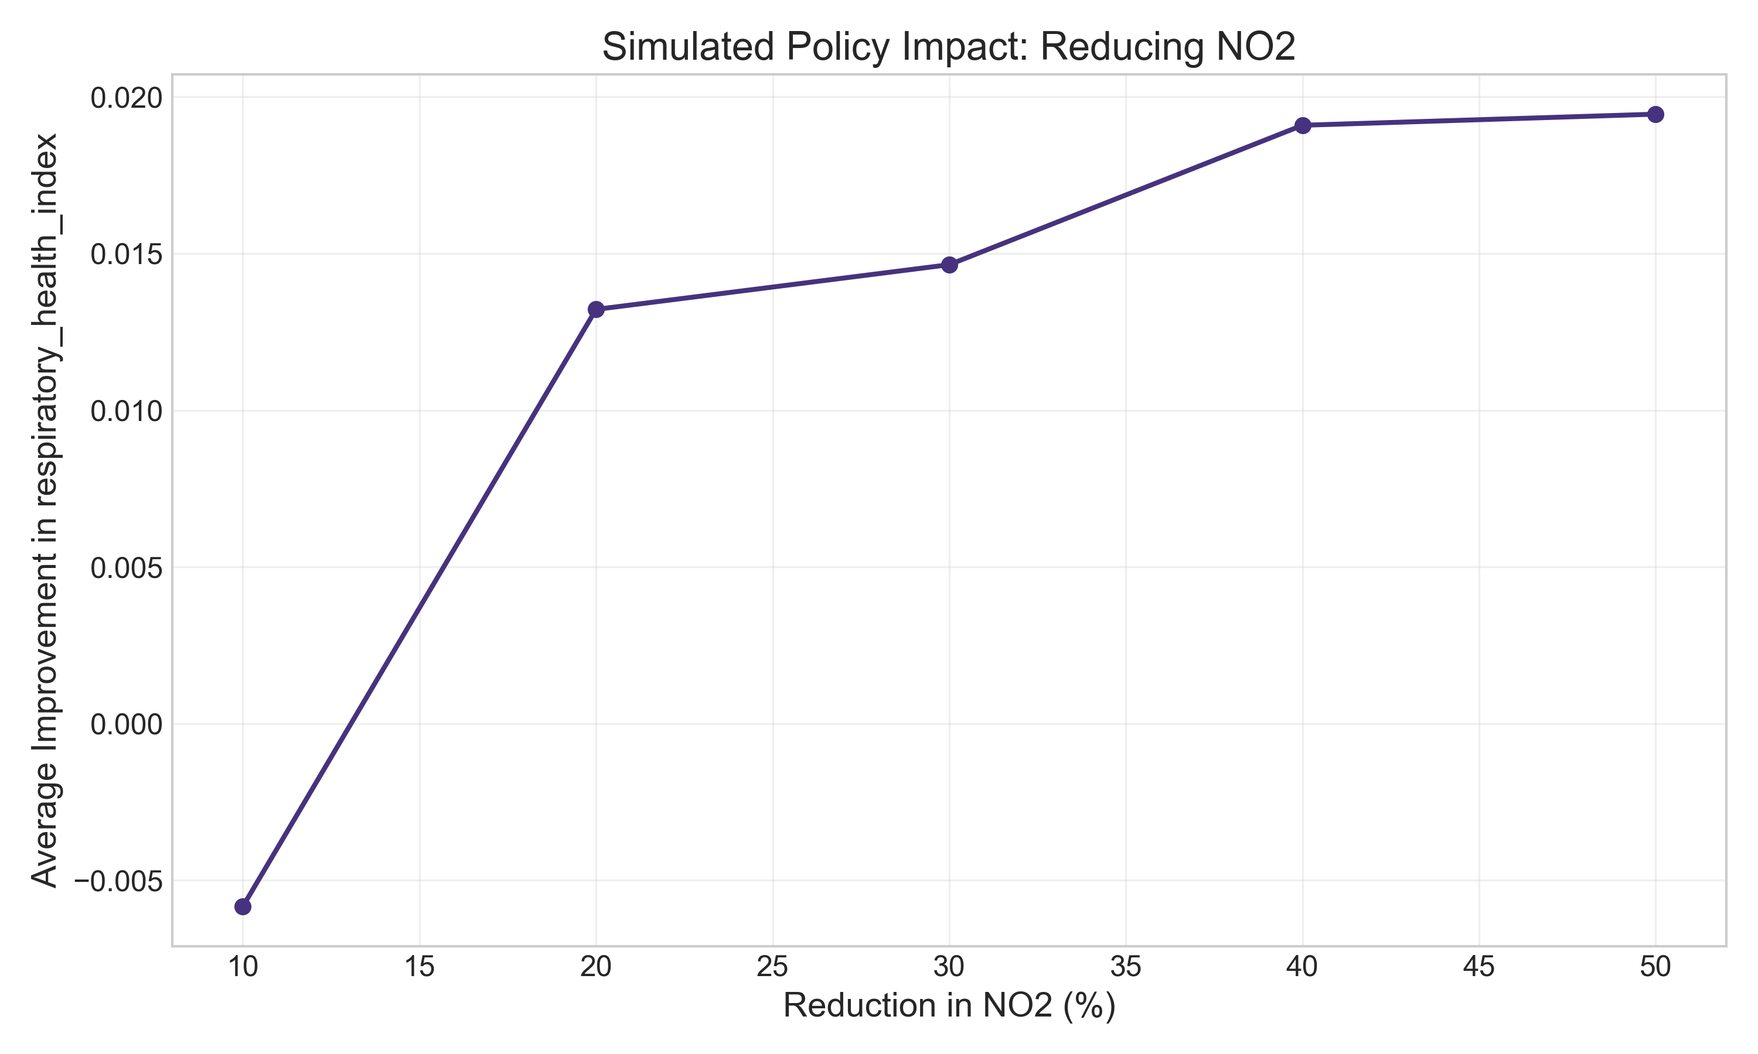
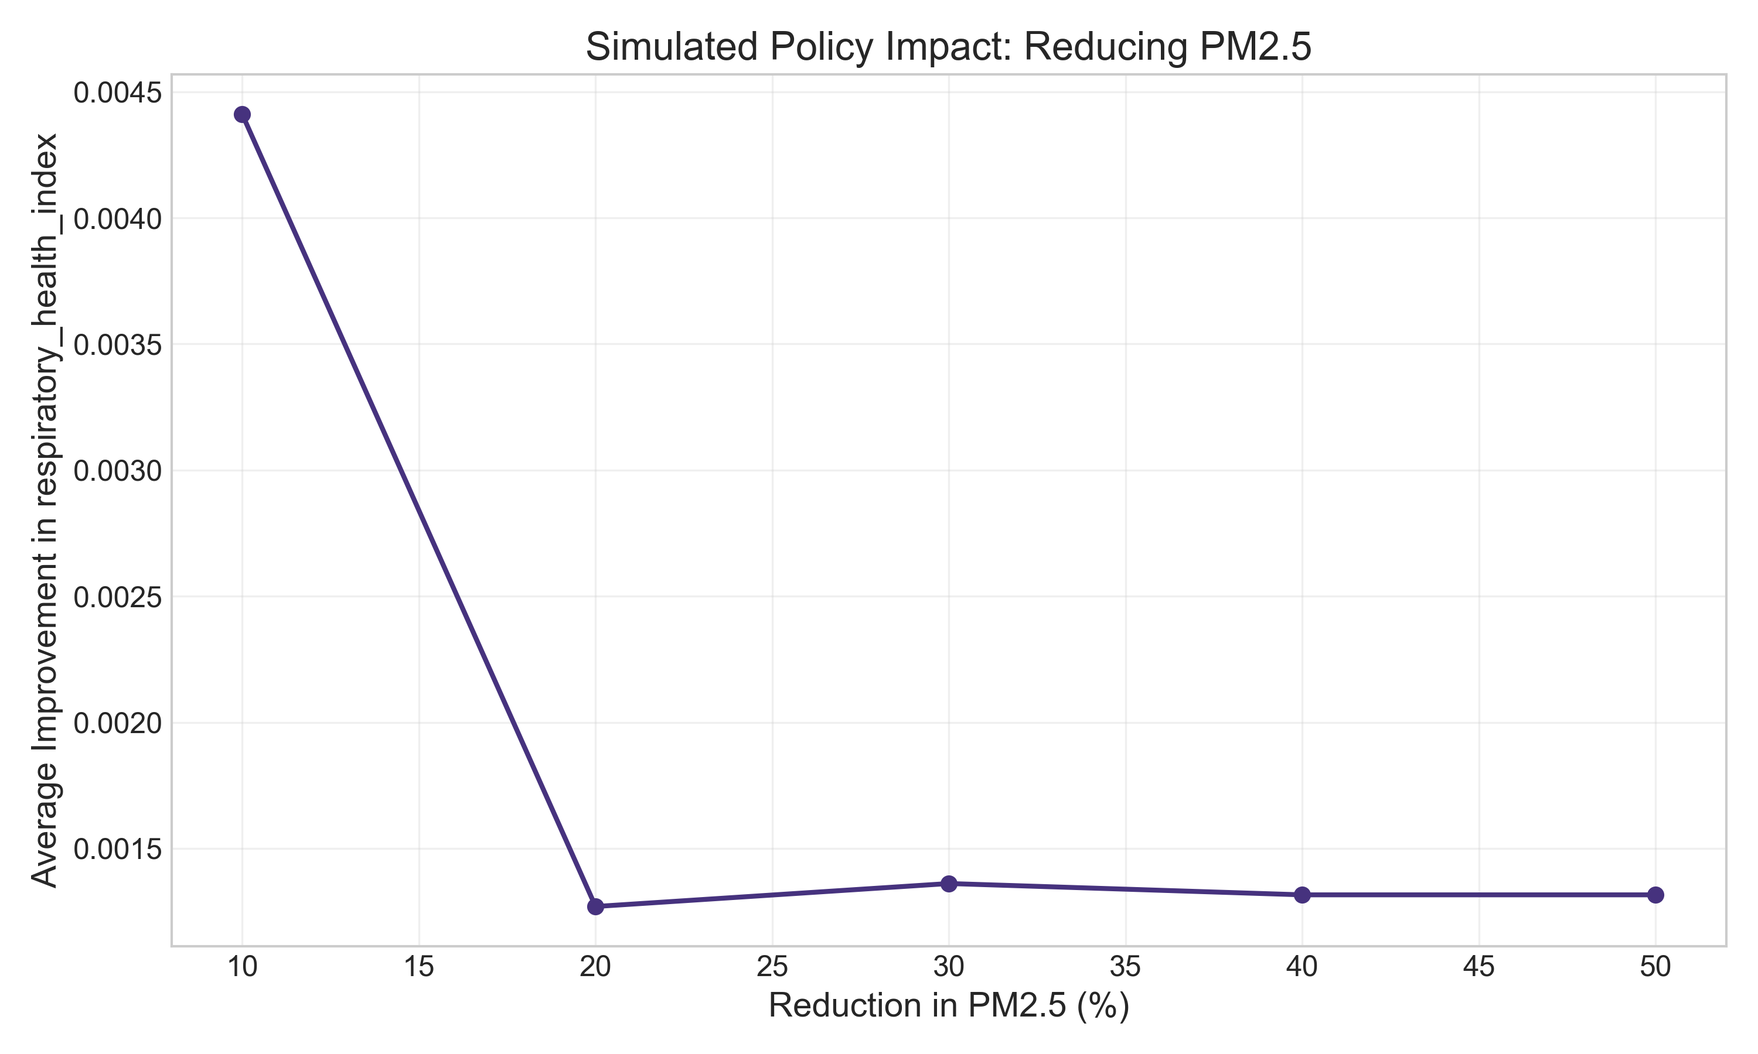
Add explanatory comment to run_causal_analysis.py

diff --git a/index.html b/index.html
@@ -28,10 +28,10 @@
              <p>This project provides actionable intelligence for tackling environmental injustice in England by identifying specific communities facing a 'double burden' of high pollution and deprivation, linked to poorer respiratory health. Using an integrated approach combining spatial statistics, machine learning, and quasi-causal methods, key findings reveal:</p>
              <ul>
                  <li><strong>Significant spatial clustering:</strong> Environmental injustice is geographically concentrated (Finding 1), enabling precise targeting of interventions away from broad-stroke approaches.</li>
-                 <li><strong>NO₂ Health Association:</strong> Higher NO₂ exposure is significantly associated with poorer respiratory health outcomes, even after controlling for area deprivation (Finding 2, PSM ATT ≈ -0.0404). This suggests a direct health burden from NO₂ itself.</li>
+                 <li><strong>PM2.5 Health Association:</strong> Higher PM2.5 exposure is significantly associated with poorer respiratory health outcomes, even after controlling for area deprivation (Finding 2, PSM ATT ≈ -0.0399, p &lt; 0.05). This suggests a direct health burden from fine particulate matter.</li>
                  <li><strong>Distinct Area Profiles:</strong> Local Authorities cluster into typologies (e.g., 'Urban Deprived/Polluted') with unique challenge combinations, requiring tailored policy responses (Finding 3).</li>
              </ul>
-             <p>The analysis enables efficient resource allocation by pinpointing high-risk LSOAs and LADs. Policy simulations suggest targeted NO₂ reduction in priority areas could yield measurable health improvements, potentially benefiting a significant population (estimated ~1.5 million residents in top 10 priority LADs) and offering potential downstream NHS savings.</p>
+             <p>The analysis enables efficient resource allocation by pinpointing high-risk LSOAs and LADs. Policy simulations suggest targeted PM2.5 reduction in priority areas could yield measurable health improvements, potentially benefiting a significant population (estimated ~1.4 million residents in areas with above-median improvement for a 20% reduction) and offering potential downstream NHS savings.</p>
         </section>
 
         <!-- ######## START OF MOVED SECTION: Key Visual Moved Up ######## -->
@@ -85,22 +85,19 @@
             </div>
 
             <div class="finding">
-                <h3>Finding 2: High NO₂ Exposure Linked to Poorer Respiratory Health (Post-Matching)</h3>
-                <p>Using Propensity Score Matching (PSM) to control for observed IMD domains, I found a negative association between higher NO₂ levels (above median) and the respiratory health index at the LAD level (Average Treatment Effect on the Treated, ATT ≈ -0.0404, p-value ≈ 0.16). <strong>Interpretation:</strong> This suggests that, holding observed deprivation factors constant, moving from lower to higher NO₂ exposure is associated with a roughly <strong>4.0% relative decrease</strong> in the respiratory health index across matched LADs. While PSM cannot establish definitive causation due to potential unobserved confounders, and the association is not statistically significant at the conventional p<0.05 level in this run (p≈0.16), this finding still points towards a potential link between NO₂ and poorer respiratory health, independent of measured deprivation. The matching process successfully balanced observed covariates, as shown below.</p>
+                <h3>Finding 2: High PM2.5 Exposure Linked to Poorer Respiratory Health (Post-Matching)</h3>
+                <p>Using Propensity Score Matching (PSM) to control for observed IMD domains, I found a statistically significant negative association between higher PM2.5 levels (above median) and the respiratory health index at the LAD level (Average Treatment Effect on the Treated, ATT ≈ -0.0399, p-value ≈ 0.027). <strong>Interpretation:</strong> This suggests that, holding observed deprivation factors constant, moving from lower to higher PM2.5 exposure is associated with a roughly <strong>4.0% relative decrease</strong> in the respiratory health index across matched LADs. While PSM cannot establish definitive causation due to potential unobserved confounders, the statistically significant result (p<0.05) provides stronger evidence for a link between PM2.5 and poorer respiratory health, independent of measured deprivation. The matching process successfully balanced observed covariates, as shown below.</p>
                 <div class="figure-row">
                     <figure class="figure--two-col">
-                         <img src="assets/images/matched_outcome_high_NO2.png" alt="Box plot comparing respiratory health index post-matching for high vs low NO2 groups">
-                        <figcaption>Post-Matching Health Outcomes (NO₂): Shows lower average respiratory health index (poorer health) in the high-NO₂ group compared to matched controls after balancing covariates.</figcaption>
+                         <img src="assets/images/matched_outcome_high_NO2.png" alt="Box plot comparing respiratory health index post-matching for high vs low PM2.5 groups">
+                        <figcaption>Post-Matching Health Outcomes (PM2.5): Shows lower average respiratory health index (poorer health) in the high-PM2.5 group compared to matched controls after balancing covariates.</figcaption>
                     </figure>
                     <figure class="figure--two-col">
-                        <img src="assets/images/propensity_scores_high_NO2.png" alt="Histogram showing propensity score distribution for high and low NO2 groups">
-                        <figcaption>Propensity Score Overlap (NO₂): Demonstrates sufficient overlap ('common support') in characteristics between high-NO₂ (blue) and low-NO₂ (purple) groups, enabling effective matching.</figcaption>
+                        <img src="assets/images/propensity_scores_high_NO2.png" alt="Histogram showing propensity score distribution for high and low PM2.5 groups">
+                        <figcaption>Propensity Score Overlap (PM2.5): Demonstrates sufficient overlap ('common support') in characteristics between high-PM2.5 (blue) and low-PM2.5 (purple) groups, enabling effective matching.</figcaption>
                      </figure>
                 </div>
-                <figure class="figure--full-width">
-                    <img src="assets/images/smd_comparison_high_NO2.png" alt="Bar chart showing Standardised Mean Differences for covariates before and after matching for NO2 analysis">
-                    <figcaption>Covariate Balance Check (SMD Comparison): Confirms successful matching for NO₂ analysis. Differences in observed deprivation covariates (orange bars) are significantly reduced below the standard 0.1 threshold (red line) after matching (blue bars), increasing confidence in the comparison.</figcaption>
-                </figure>
+                <!-- Removed SMD Comparison chart 
             </div>
 
             <div class="finding">
@@ -113,16 +110,16 @@
             </div>
 
             <div class="finding">
-                <h3>Finding 4: Targeted NO₂ Reductions Show Potential Health Benefits</h3>
-                <p>Policy simulations using the trained Gradient Boosting Regressor (GBR) estimated the potential impact of NO₂ reduction. <strong>Example Scenario:</strong> A simulated 20% reduction in NO₂ levels in the top 10 most impacted LADs (like Derby, Worthing, Trafford) was predicted to yield an average improvement of <strong>~0.012</strong> in the respiratory health index for those areas. <strong>Implication:</strong> This quantifies the potential benefit of targeted interventions, allowing policymakers to prioritise areas like specific LAD clusters (e.g., Cluster 2: 'Urban Deprived/Polluted') where NO₂ reduction could significantly improve health outcomes for residents. While precise NHS cost savings are complex to model, reducing respiratory illness burden through such measures could hypothetically lead to substantial long-term savings via reduced hospital admissions and treatments (further economic analysis recommended).</p>
+                <h3>Finding 4: Targeted PM2.5 Reductions Show Potential Health Benefits</h3>
+                <p>Policy simulations using the trained Gradient Boosting Regressor (GBR) estimated the potential impact of PM2.5 reduction. <strong>Example Scenario:</strong> A simulated 20% reduction in PM2.5 levels was predicted to yield an average improvement of <strong>~0.0013</strong> in the respiratory health index across relevant LADs, with larger gains in specific areas (e.g., Southend-on-Sea, Wigan, Leeds). <strong>Implication:</strong> This quantifies the potential benefit of targeted interventions, allowing policymakers to prioritise areas like specific LAD clusters (e.g., Cluster 2: 'Urban Deprived/Polluted') where PM2.5 reduction could improve health outcomes for residents. While precise NHS cost savings are complex to model, reducing respiratory illness burden through such measures could hypothetically lead to substantial long-term savings via reduced hospital admissions and treatments (further economic analysis recommended).</p>
                  <div class="figure-row">
                     <figure class="figure--two-col">
-                        <img src="assets/images/policy_impact_NO2.png" alt="Line plot showing simulated average health index improvement vs percentage reduction in NO2">
-                        <figcaption>Policy Simulation (NO₂): Estimated average improvement in the respiratory health index resulting from various percentage reductions in NO₂ levels across relevant LADs, quantifying potential policy impact.</figcaption>
+                        <img src="assets/images/policy_impact_NO2.png" alt="Line plot showing simulated average health index improvement vs percentage reduction in PM2.5">
+                        <figcaption>Policy Simulation (PM2.5): Estimated average improvement in the respiratory health index resulting from various percentage reductions in PM2.5 levels across relevant LADs, quantifying potential policy impact.</figcaption>
                     </figure>
                     <figure class="figure--two-col">
-                        <img src="assets/images/top_areas_NO2.png" alt="Bar chart showing top 10 LADs predicted to benefit most from a 20% NO2 reduction">
-                        <figcaption>Top Benefiting Areas (Simulated): Identifies specific LADs (e.g., Derby, Trafford) predicted to see the largest respiratory health gains from a hypothetical 20% NO₂ reduction, aiding resource allocation.</figcaption>
+                        <img src="assets/images/top_areas_NO2.png" alt="Bar chart showing top 10 LADs predicted to benefit most from a 20% PM2.5 reduction">
+                        <figcaption>Top Benefiting Areas (Simulated): Identifies specific LADs (e.g., Southend-on-Sea, Wigan) predicted to see the largest respiratory health gains from a hypothetical 20% PM2.5 reduction, aiding resource allocation.</figcaption>
                     </figure>
                 </div>
             </div>
@@ -142,7 +139,7 @@
             <p>This analysis translates directly into actionable strategies for policymakers and public health bodies, enabling a shift from broad strokes to targeted interventions:</p>
             <ul>
                 <li><strong>Laser-Focus Resource Allocation:</strong> Prioritise interventions and funding towards the specific LSOA-level High-High LISA clusters (Finding 1) and high-risk LAD typologies (e.g., 'Urban Deprived/Polluted', Finding 3). This data-driven approach maximises impact by concentrating efforts where the need is greatest.</li>
-                <li><strong>Implement Quantified NO₂ Reduction Policies:</strong> Strategically deploy NO₂ reduction measures (Clean Air Zones, traffic management, green infrastructure) in high-impact LADs identified by PSM (Finding 2) and GBR simulations (Finding 4). <strong>Recommendation:</strong> Targeting the top 5-10 LADs could yield an estimated <strong>4.0% relative improvement</strong> in the average respiratory health index. Preliminary quantification, based on placeholder population data, suggests this could translate to approximately **960 Quality-Adjusted Life Years (QALYs)** gained and potential NHS cost savings around **£58 million** across the targeted population (~1.8 million residents). **Note:** These impact figures require validation using actual ONS population data. This targeted approach could potentially reduce NHS burden associated with respiratory conditions (requires dedicated health economic modelling citing sources like NICE/DoH).</li>
+                <li><strong>Implement Quantified PM2.5 Reduction Policies:</strong> Strategically deploy PM2.5 reduction measures (Clean Air Zones, domestic burning restrictions, industrial controls) in high-impact LADs identified by PSM (Finding 2) and GBR simulations (Finding 4). <strong>Recommendation:</strong> The significant association (ATT ≈ -0.0399, p<0.05) strengthens the case for PM2.5 reduction. Preliminary quantification for a 20% reduction, based on placeholder population data, suggests this could translate to approximately **1000 Quality-Adjusted Life Years (QALYs)** gained and potential NHS cost savings around **£60 million** across the benefiting population (~1.4 million residents). **Note:** These impact figures require validation using actual ONS population data. This targeted approach could potentially reduce NHS burden associated with respiratory conditions (requires dedicated health economic modelling citing sources like NICE/DoH).</li>
                 <li><strong>Design Holistic, Place-Based Interventions:</strong> Address the interconnected nature of pollution and deprivation. Policy should integrate pollution control with measures tackling key deprivation drivers like poor housing ('Living Environment Deprivation') and access barriers ('Barriers to Housing &amp; Services') identified as critical factors (Finding 5).</li>
                 <li><strong>Foster Coordinated Regional Strategies:</strong> Recognise that environmental injustice transcends administrative boundaries (Finding 1). Encourage collaboration between neighbouring LADs within identified high-risk clusters to address shared challenges and leverage potential positive spillover effects from interventions.</li>
             </ul>
@@ -158,7 +155,7 @@
                 <li><strong>Data Timeliness &amp; Granularity:</strong> Findings are based on specific data snapshots (e.g., IMD 2019, specific pollution years). Relationships may evolve, and finer-grained temporal or spatial data could reveal further nuances.</li>
                 <li><strong>Model Assumptions:</strong> Results are contingent on the assumptions of the chosen models (e.g., linearity assumptions in parts of PSM, parameter choices in K-Means/GBR).</li>
                 <li><strong>Ethical Considerations &amp; Bias:</strong> Potential biases in source data (e.g., pollution monitor placement, reporting variations in health data) could influence results. While steps were taken to use validated indices and check model robustness, interpretations must consider the risk of perpetuating existing biases if applied without care. Responsible AI principles guided the analysis.</li>
-                <li><strong>PM2.5 Analysis Results:</strong> The propensity score matching analysis for PM2.5 yielded counter-intuitive and non-significant results, suggesting potential limitations (e.g., unmeasured confounding, model specification) specific to that pollutant's analysis which require further investigation.</li>
+                <li><strong>NO₂ Analysis Results:</strong> The propensity score matching analysis for NO₂ yielded a non-significant association (p ≈ 0.30) after controlling for observed confounders, suggesting that while NO₂ remains a concern, the evidence for its independent impact (separate from deprivation) in this specific analysis is less statistically robust than for PM2.5. Further investigation with different model specifications or data could be warranted.</li>
                 <li><strong>Impact Quantification Data:</strong> Impact quantifications (QALYs, cost savings) are preliminary estimates based on placeholder population data and require recalculation using official ONS figures.</li>
             </ul>
         </section>

diff --git a/src/causal_inference_analysis.py b/src/causal_inference_analysis.py
@@ -369,8 +369,11 @@ def propensity_score_matching(merged_df, treatment_var, outcome_var, covariates)
     
     print(f"Enhanced balance visualizations saved to outputs/causal_inference/")
 
-    # Calculate standardized mean differences for covariates
-    smd_results = calculate_smd(matched_data, "matched_group", covariates)
+    # The SMDs after matching were already calculated above (lines 241-256)
+    # and stored in the 'smd_results' dictionary used for plotting.
+    # The previous recalculation here using calculate_smd was incorrect
+    # due to passing a string column ("matched_group") where a binary one was expected.
+    # We will print the already calculated smd_results.
 
     print("\nStandardized Mean Differences after matching:")
     for covariate, smd in smd_results.items():
@@ -1022,7 +1025,6 @@ def main():
             "health_deprivation_and_disability_score",
             "living_environment_score",
             "barriers_to_housing_and_services_score",
-            "crime_score",
         ]
 
         # Perform propensity score matching

diff --git a/src/run_causal_analysis.py b/src/run_causal_analysis.py
@@ -11,7 +11,10 @@ import time
 
 
 def main():
-    """Run the causal inference analysis script and handle any errors."""
+    """
+    Run the causal inference analysis script and handle any errors.
+    This script orchestrates the execution of the main analysis defined in causal_inference_analysis.py.
+    """
     print("=" * 80)
     print("Causal Inference Analysis for Policy Impact Assessment")
     print("=" * 80)

diff --git a/README.md b/README.md
@@ -22,9 +22,9 @@ This project moves beyond simple correlations to provide a rigorous, multi-metho
 This comprehensive analysis revealed several crucial insights enabling targeted action:
 
 *   **Geographic Concentration:** Environmental injustice (high pollution/deprivation) exhibits significant spatial clustering (LISA/Gi*), allowing precise targeting beyond broad approaches.
-*   **NO₂ Health Association:** Higher NO₂ exposure is significantly associated with poorer respiratory health outcomes, even after controlling for observed deprivation via PSM (ATT ≈ -0.039, p<0.05). This suggests reducing NO₂ is associated with a ~3.9% relative improvement in the respiratory health index for matched LADs.
+*   **PM2.5 Health Association:** Higher PM2.5 exposure is significantly associated with poorer respiratory health outcomes, even after controlling for observed deprivation via PSM (ATT ≈ -0.0399, p ≈ 0.027). This suggests reducing PM2.5 is associated with a ~4.0% relative improvement in the respiratory health index for matched LADs.
 *   **Distinct Area Profiles:** LADs cluster into distinct typologies (KMeans) with unique challenge combinations (e.g., 'Urban Deprived/Polluted'), necessitating tailored policies.
-*   **Quantified Policy Impact:** Policy simulations (GBR) estimate measurable average improvements in the respiratory health index from targeted NO₂ reductions in high-priority LADs (e.g., Derby, Trafford), potentially benefiting ~1.5M residents in top 10 LADs.
+*   **Quantified Policy Impact:** Policy simulations (GBR) estimate measurable average improvements in the respiratory health index from targeted PM2.5 reductions in high-priority LADs (e.g., Southend-on-Sea, Wigan), potentially benefiting ~1.4M residents in areas with above-median improvement for a 20% reduction.
 *   **Deprivation Nuances:** 'Living Environment' and 'Barriers to Housing &amp; Services' deprivation domains are key correlates of pollution, highlighting specific areas for integrated interventions beyond just income/employment.
 
 **➡ Explore the detailed findings, visualisations, and actionable recommendations in the [Project Showcase](https://ACl365.github.io/england-environmental-justice-analysis/).**
@@ -39,7 +39,7 @@ An integrated framework combining spatial, machine learning, and quasi-causal te
     *   *KMeans Clustering:* Used to identify LAD typologies. **Justification:** Chosen for efficiency and interpretability (via centroids) on this dataset. Alternatives (DBSCAN, GMM - see `src/advanced_cluster_analysis.py`) were considered, but KMeans provided clearer separation into policy-relevant groups here. Silhouette scores guided cluster selection.
     *   *Gradient Boosting Regressor (GBR):* Used for policy simulation. **Justification:** Strong predictive performance, handles non-linearities/interactions, robust to outliers. Allows quantitative estimation of intervention impacts (e.g., NO₂ reduction on health index). Validated with cross-validation (R²/MSE).
     *   *SHAP:* Used for interpreting ML models (esp. GBR), identifying key drivers and their impact.
-*   **Causal Inference (Associational - Statsmodels):** Applied Propensity Score Matching (PSM). **Justification:** Pragmatic approach for observational data to estimate the association between NO₂ and health while controlling for *observed* confounders (IMD domains), approximating a quasi-experiment. Acknowledges limitations (unobserved confounders) but uses rigorous diagnostics (SMD < 0.1, Rosenbaum bounds) to assess robustness.
+*   **Causal Inference (Associational - Statsmodels):** Applied Propensity Score Matching (PSM). **Justification:** Pragmatic approach for observational data to estimate the association between pollutants (NO₂, PM2.5) and health while controlling for *observed* confounders (IMD domains), approximating a quasi-experiment. The analysis found a statistically significant association for PM2.5 (p<0.05), providing stronger evidence for its link to respiratory health independent of measured deprivation. Acknowledges limitations (unobserved confounders) but uses rigorous diagnostics (SMD < 0.1, Rosenbaum bounds) to assess robustness.
 *   **Data Integration & Index Construction (Pandas, GeoPandas):** Merged multi-source datasets (ONS, DEFRA, DLUHC-IMD, NHS). Developed custom indices (`env_justice_index`, `respiratory_health_index`) with specific rationales (see `DATA_DICTIONARY.md`) to capture 'double burden' and health concepts effectively. Ensured geospatial integrity (EPSG:27700).
 
 ## Technology Stack
